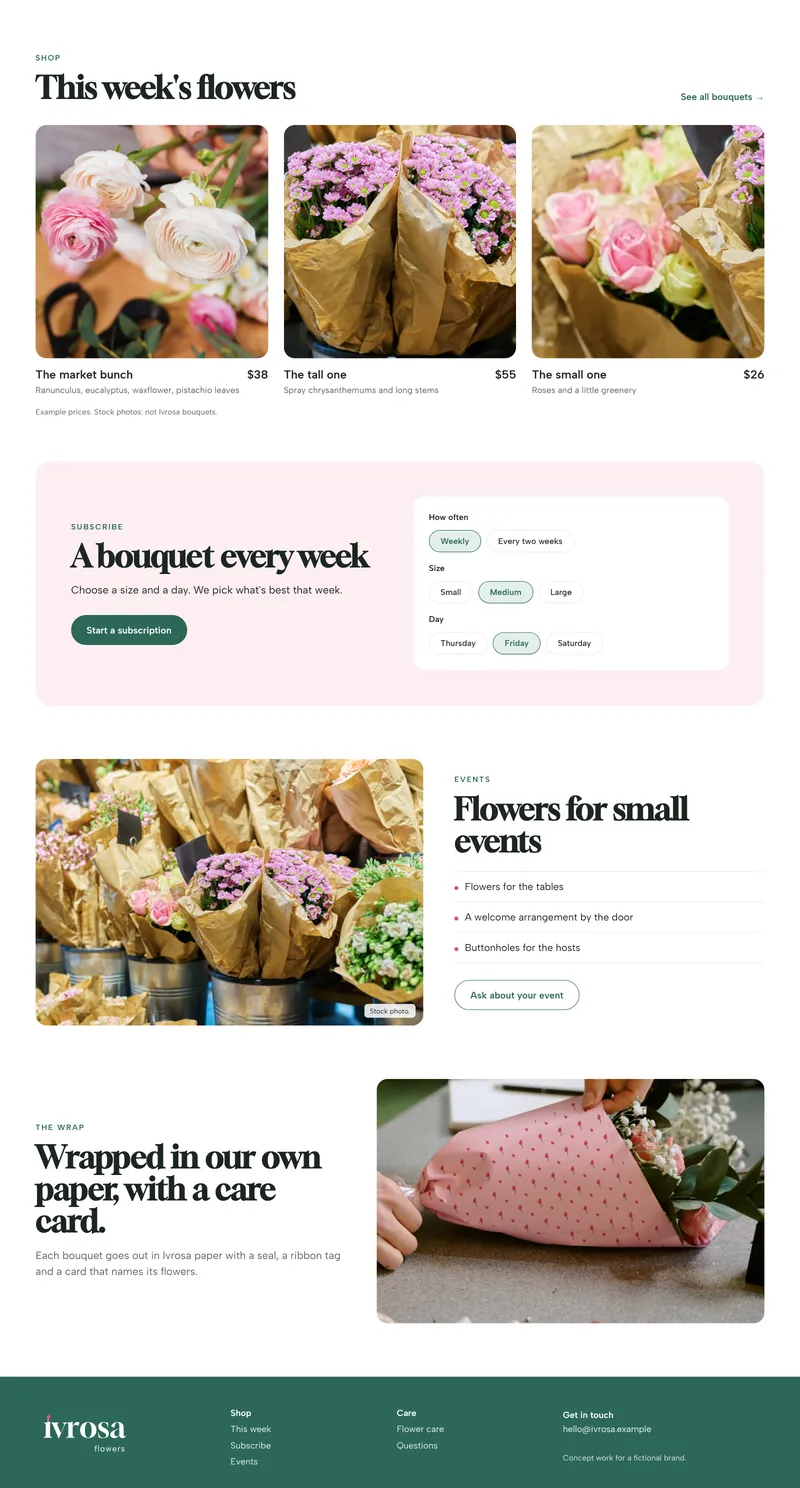
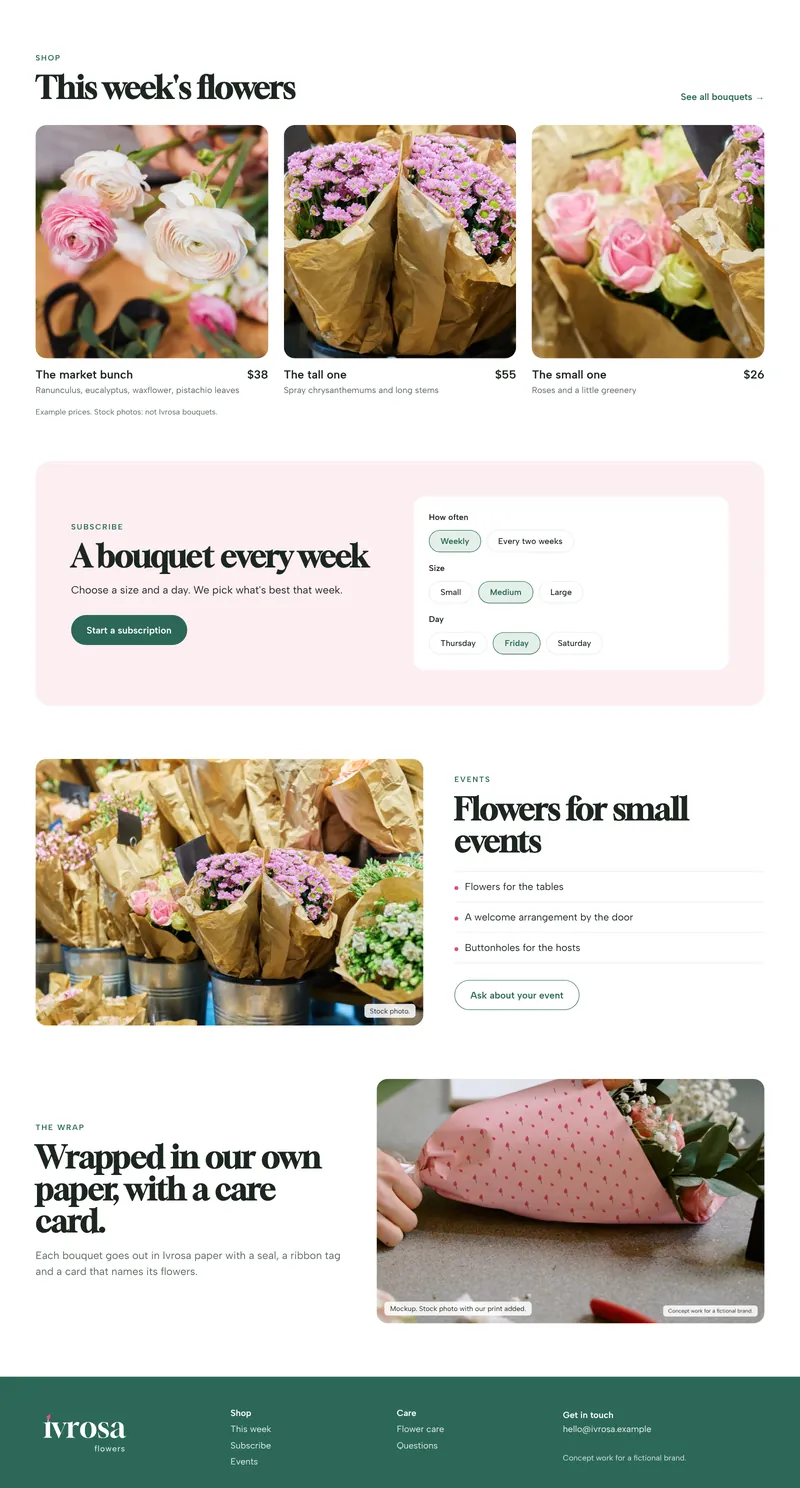
fix(library): Ivrosa and Holtrig marketing fixes
Concept label under the Brakes price table, a mockup tag on the wrap photo,
the Stock photo tag on Ivrosa's share picture (the strip had rendered
without it), and alt text that matches the Ivrosa week screen and names the
tyres photo on Holtrig's home page.

Claude-Session: https://claude.ai/code/session_01WkeDygNPBNxvd625zw9mQm

Changed region(s): [[0.4688, 0.711, 0.9688, 0.8965]]

diff --git a/src/content/library.js b/src/content/library.js
@@ -122,7 +122,7 @@ export const library = [
       "Every bouquet names its flowers and comes with a care card; prices, dates and orders are labelled as examples.",
     ],
     mobile: [
-      phone("ivrosa", "week", "Ivrosa's This week's flowers screen: stock photo cards for The market bunch $38, The tall one $55 and The small one $26 (example prices), chips for ranunculus, eucalyptus and waxflower, and a petal-pink subscription card."),
+      phone("ivrosa", "week", "Ivrosa's This week's flowers screen: a stock photo card for The market bunch, $38 (example price), with chips for ranunculus, eucalyptus and waxflower, the next card cut off at the edge as the row scrolls, and a petal-pink subscription card."),
       phone("ivrosa", "bouquet", "Ivrosa's bouquet screen for The market bunch, $38: a stock photo of ranunculus, four flower names with peony ticks, Small, Medium and Large chips with Medium picked, a card message field and a green Add to basket button."),
       phone("ivrosa", "delivery", 'Ivrosa\'s delivery screen, "When should it arrive?": Thu 4, Fri 5 and Sat 6 Feb with Friday picked, collect or delivery, delivery address and recipient\'s phone fields, and Continue to payment. Example dates.'),
       phone("ivrosa", "care", 'Ivrosa\'s care card screen, "Keep them going": four steps with thin green line icons (trim, vase, water, place) and a green card for The market bunch, delivered Fri 5 Feb. Example order.'),
@@ -224,7 +224,7 @@ export const library = [
         "desktop-sections",
         1600,
         2664,
-        "The rest of Holtrig's home page: eight cards with thin steel blue icons for what the workshop fixes, four numbered steps on concrete beside a stock photo of a car on a lift, an example price table, and a gunmetal footer with example hours.",
+        "The rest of Holtrig's home page: eight cards with thin steel blue icons for what the workshop fixes, four numbered steps on concrete beside a stock photo of a car on a lift, an example price table beside a stock photo of tyres, and a gunmetal footer with example hours.",
       ),
       pic(
         "holtrig",
